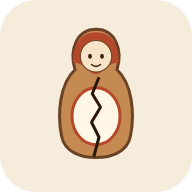
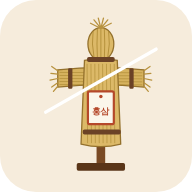
Turn dolls into 大-shaped straw cutting dummies with a diagonal sword-cut animation
Claude-Session: https://claude.ai/code/session_01RkzTcnM1gYhQsNnEV5AorV

Changed region(s): [[0.2188, 0.0938, 0.8438, 0.9062]]

diff --git a/app.js b/app.js
@@ -56,37 +56,44 @@ function streak() {
   return n;
 }
 
-// ---- 목각 인형 그림 ------------------------------------------------------
+// ---- 짚단 인형 그림 (大자 모양, 칼로 베는 연습용) ------------------------
+function strawLines(x1, x2, y1, y2, step, vertical) {
+  let d = '';
+  if (vertical) for (let x = x1; x <= x2; x += step) d += `M${x} ${y1}L${x + 0.6} ${y2}`;
+  else for (let y = y1; y <= y2; y += step) d += `M${x1} ${y}L${x2} ${y + 0.4}`;
+  return `<path d="${d}" stroke="#a9852f" stroke-width=".9" fill="none" opacity=".75"/>`;
+}
+
 function dollSVG(doll) {
   return `
 <svg viewBox="0 0 120 180" xmlns="http://www.w3.org/2000/svg">
-  <path d="M60 6C34 6 24 34 32 60C12 78 8 118 14 148C18 170 40 177 60 177C80 177 102 170 106 148C112 118 108 78 88 60C96 34 86 6 60 6Z"
-        fill="#c48a52" stroke="#6b4226" stroke-width="3"/>
-  <g fill="none" stroke="#8b5a2b" stroke-width="1.4" opacity=".35">
-    <path d="M24 100C40 92 44 110 60 104"/><path d="M70 150C84 142 92 156 102 146"/>
-    <path d="M18 132C30 126 36 138 48 132"/><path d="M78 88C88 82 96 92 104 86"/>
-  </g>
-  <path d="M60 10C38 10 28 30 30 52C40 46 50 66 60 66C70 66 80 46 90 52C92 30 82 10 60 10Z" fill="${doll.color}"/>
-  <circle cx="60" cy="42" r="21" fill="#f7e3c8" stroke="#6b4226" stroke-width="1.5"/>
-  <path d="M42 30C48 22 72 22 78 30C70 27 50 27 42 30Z" fill="#3b2414"/>
-  <ellipse cx="52" cy="42" rx="2.6" ry="3.4" fill="#3b2414"/>
-  <ellipse cx="68" cy="42" rx="2.6" ry="3.4" fill="#3b2414"/>
-  <circle cx="47" cy="50" r="4" fill="#f19a9a" opacity=".7"/>
-  <circle cx="73" cy="50" r="4" fill="#f19a9a" opacity=".7"/>
-  <path d="M54 53Q60 58 66 53" fill="none" stroke="#3b2414" stroke-width="2" stroke-linecap="round"/>
-  <ellipse cx="60" cy="122" rx="32" ry="38" fill="#fff6e6" stroke="${doll.color}" stroke-width="4"/>
-  <circle cx="60" cy="108" r="11" fill="${doll.color}" opacity=".9"/>
-  <circle cx="60" cy="108" r="4" fill="#fff6e6"/>
-  <text x="60" y="140" text-anchor="middle" font-size="14" font-weight="800" fill="${doll.color}"
+  <rect x="55" y="140" width="10" height="34" fill="#7a4a24"/>
+  <rect x="32" y="169" width="56" height="9" rx="2" fill="#5a3518"/>
+  <path d="M10 61Q60 55 110 61L110 81Q60 75 10 81Z" fill="#d6b25e" stroke="#94712c" stroke-width="1.5"/>
+  ${strawLines(12, 108, 64, 78, 3.5, false)}
+  <path d="M10 62L3 57M10 66L2 65M10 71L1 73M10 76L3 81M10 80L5 86M110 62L117 57M110 66L118 65M110 71L119 73M110 76L117 81M110 80L115 86"
+        stroke="#b8923e" stroke-width="1.4" stroke-linecap="round"/>
+  <path d="M41 50Q60 46 79 50L83 147Q60 153 37 147Z" fill="#dcb968" stroke="#94712c" stroke-width="1.5"/>
+  ${strawLines(44, 77, 54, 146, 4.5, true)}
+  <ellipse cx="60" cy="31" rx="15" ry="19" fill="#dcb968" stroke="#94712c" stroke-width="1.5"/>
+  <path d="M51 16Q49 31 52 46M56 13Q55 31 56 49M60 12V50M64 13Q65 31 64 49M69 16Q71 31 68 46" stroke="#a9852f" stroke-width=".9" fill="none"/>
+  <path d="M60 13L52 3M60 13L57 1M60 13L63 1M60 13L68 3M60 13L72 7M60 13L48 7" stroke="#b8923e" stroke-width="1.5" stroke-linecap="round"/>
+  <rect x="44" y="46" width="32" height="6" rx="2" fill="#6b4226"/>
+  <rect x="39" y="130" width="44" height="6" rx="2" fill="#6b4226"/>
+  <rect x="22" y="59" width="5" height="24" rx="1.5" fill="#6b4226"/>
+  <rect x="93" y="59" width="5" height="24" rx="1.5" fill="#6b4226"/>
+  <rect x="45" y="86" width="30" height="38" rx="2" fill="#fbf6ea" stroke="${doll.color}" stroke-width="2.5"/>
+  <circle cx="60" cy="92" r="2" fill="${doll.color}"/>
+  <text x="60" y="112" text-anchor="middle" font-size="10" font-weight="800" fill="${doll.color}"
         font-family="Apple SD Gothic Neo, Noto Sans KR, sans-serif">${doll.tag}</text>
 </svg>`;
 }
 
-const CRACK_SVG = `
-<svg class="crack" viewBox="0 0 120 180" xmlns="http://www.w3.org/2000/svg">
-  <polyline points="64.8,0 55.2,39.6 66,72 54,104.4 64.8,136.8 56.4,180"
-            fill="none" stroke="#2a160a" stroke-width="3.5" stroke-linejoin="bevel"
-            pathLength="1" stroke-dasharray="1" stroke-dashoffset="1"/>
+// 베는 선: 왼쪽 아래(0,108) → 오른쪽 위(120,40)
+const SLASH_SVG = `
+<svg class="slash" viewBox="0 0 120 180" xmlns="http://www.w3.org/2000/svg" overflow="visible">
+  <line x1="-12" y1="114.8" x2="132" y2="33.2" stroke="#fff" stroke-width="5" stroke-linecap="round"
+        pathLength="1" stroke-dasharray="1" stroke-dashoffset="1" style="filter:drop-shadow(0 0 4px #fff) drop-shadow(0 0 2px #9ad)"/>
 </svg>`;
 
 // ---- 화면 ----------------------------------------------------------------
@@ -139,16 +146,15 @@ function render({ arriving = false } = {}) {
     const sub = { waiting: '도착 전', locked: '🔒 앞 인형 먼저', ready: '눌러서 부수기', broken: '✔ 부숨' }[st];
     slot.innerHTML = `
       <button class="doll" aria-label="${i + 1}번째 목각 인형: ${doll.name} (${sub})" ${st === 'ready' ? '' : 'aria-disabled="true"'}>
-        <div class="half l">${dollSVG(doll)}</div>
-        <div class="half r">${dollSVG(doll)}</div>
-        ${CRACK_SVG}
+        <div class="half bot">${dollSVG(doll)}</div>
+        <div class="half top">${dollSVG(doll)}</div>
+        ${SLASH_SVG}
       </button>
       <div class="label">${i + 1}. ${doll.name}</div>
       <div class="sub">${sub}</div>`;
     if (arriving) slot.querySelector('.doll').style.animationDelay = `${i * 0.15}s`;
     if (st === 'broken') {
-      slot.querySelector('.half.l').style.transform = 'translate(-10%, 0) rotate(-12deg)';
-      slot.querySelector('.half.r').style.transform = 'translate(10%, 0) rotate(12deg)';
+      slot.querySelector('.half.top').style.transform = FALLEN;
     }
     slot.querySelector('.doll').addEventListener('click', () => onDollTap(i));
     shelf.appendChild(slot);
@@ -160,6 +166,7 @@ function render({ arriving = false } = {}) {
 }
 
 // ---- 상호작용 ------------------------------------------------------------
+const FALLEN = 'translate(-14%, 34%) rotate(-30deg)'; // 베인 윗부분이 떨어져 누운 자세
 let pending = null;
 let busy = false;
 
@@ -221,52 +228,51 @@ async function smash(i) {
   const slot = $('shelf').children[i];
   slot.classList.remove('ready');
   const doll = slot.querySelector('.doll');
-  const l = doll.querySelector('.half.l');
-  const r = doll.querySelector('.half.r');
-  const crack = doll.querySelector('.crack');
-  const line = crack.querySelector('polyline');
+  const top = doll.querySelector('.half.top');
+  const slash = doll.querySelector('.slash');
+  const line = slash.querySelector('line');
+  const box = doll.getBoundingClientRect();
 
-  // 1) 덜덜 떨기
+  // 1) 숨 고르기: 살짝 움찔
   if (!reduced) {
     await doll.animate([
-      { transform: 'rotate(0) scale(1)' },
-      { transform: 'rotate(-6deg) scale(1.03)' },
-      { transform: 'rotate(6deg) scale(1.05)' },
-      { transform: 'rotate(-8deg) scale(1.07)' },
-      { transform: 'rotate(8deg) scale(1.08)' },
-      { transform: 'rotate(0) scale(1.1)' },
-    ], { duration: 520, easing: 'ease-in' }).finished;
+      { transform: 'rotate(0)' }, { transform: 'rotate(2deg) translateX(2px)' }, { transform: 'rotate(0)' },
+    ], { duration: 300, easing: 'ease-in-out' }).finished;
   }
 
-  // 2) 쩍! 금이 감
-  crack.style.opacity = '1';
-  await line.animate([{ strokeDashoffset: 1 }, { strokeDashoffset: 0 }], { duration: reduced ? 1 : 180, fill: 'forwards' }).finished;
-
-  // 3) 쾅! 두 동강
-  crunch();
-  navigator.vibrate?.([20, 30, 120]);
-  const box = doll.getBoundingClientRect();
-  bang(box.left + box.width / 2, box.top + box.height * 0.35);
+  // 2) 싹둑! 칼날이 대각선으로 지나감
+  slash.style.opacity = '1';
+  swish();
+  navigator.vibrate?.([15, 20, 90]);
+  await line.animate([{ strokeDashoffset: 1 }, { strokeDashoffset: 0 }],
+    { duration: reduced ? 1 : 110, easing: 'ease-in', fill: 'forwards' }).finished;
+  bang(box.left + box.width * 0.78, box.top + box.height * 0.18);
   if (!reduced) {
-    document.body.classList.remove('shake');
-    void document.body.offsetWidth;
-    document.body.classList.add('shake');
-    chips(box.left + box.width / 2, box.top + box.height * 0.45, 26);
+    chips(box.left + box.width / 2, box.top + box.height * 0.41, 30);
+    slash.animate([{ opacity: 1 }, { opacity: 0 }], { duration: 350, fill: 'forwards' });
+    await wait(260); // 베인 뒤 잠깐 멈춤 — 그다음 스르륵
   }
-  crack.style.opacity = '0';
-  const fly = (el, dir) => el.animate([
+  slash.style.opacity = '0';
+
+  // 3) 윗부분이 베인 면을 따라 미끄러져 떨어짐
+  await top.animate([
     { transform: 'translate(0,0) rotate(0)' },
-    { transform: `translate(${dir * 40}%, -16%) rotate(${dir * 30}deg)`, offset: 0.45 },
-    { transform: `translate(${dir * 10}%, 0) rotate(${dir * 12}deg)` },
-  ], { duration: reduced ? 1 : 650, easing: 'cubic-bezier(.2,.8,.3,1)', fill: 'forwards' }).finished;
-  await Promise.all([fly(l, -1), fly(r, 1)]);
-  await wait(250);
+    { transform: 'translate(-9%, 5%) rotate(-3deg)', offset: 0.3, easing: 'ease-in' },
+    { transform: 'translate(-17%, 37%) rotate(-38deg)', offset: 0.78 },
+    { transform: 'translate(-13%, 31%) rotate(-26deg)', offset: 0.9 },
+    { transform: FALLEN },
+  ], { duration: reduced ? 1 : 900, easing: 'ease-in', fill: 'forwards' }).finished;
+  if (!reduced) {
+    thud();
+    chips(box.left + box.width * 0.4, box.top + box.height * 0.85, 10);
+  }
+  await wait(300);
 }
 
 function bang(x, y) {
   const el = document.createElement('div');
   el.className = 'bang';
-  el.textContent = '쾅!';
+  el.textContent = '싹둑!';
   el.style.left = `${x}px`;
   el.style.top = `${y}px`;
   $('fx').appendChild(el);
@@ -283,10 +289,9 @@ function chips(x, y, n) {
     el.className = 'chip';
     el.style.left = `${x}px`;
     el.style.top = `${y}px`;
-    const w = 6 + Math.random() * 10;
-    el.style.width = `${w}px`;
-    el.style.height = `${w * (0.4 + Math.random() * 0.4)}px`;
-    if (Math.random() < 0.3) el.style.background = '#8b5a2b';
+    el.style.width = `${2 + Math.random() * 2}px`;
+    el.style.height = `${8 + Math.random() * 14}px`;
+    if (Math.random() < 0.35) el.style.background = '#b8923e';
     $('fx').appendChild(el);
     const a = Math.random() * Math.PI * 2;
     const v = 80 + Math.random() * 160;
@@ -302,24 +307,26 @@ function chips(x, y, n) {
 }
 
 let audio;
-function crunch() {
+function noise(seconds, shape, filterType, freq, gainValue) {
   try {
     audio ||= new (window.AudioContext || window.webkitAudioContext)();
-    const len = audio.sampleRate * 0.25;
+    const len = Math.floor(audio.sampleRate * seconds);
     const buf = audio.createBuffer(1, len, audio.sampleRate);
     const data = buf.getChannelData(0);
-    for (let i = 0; i < len; i++) data[i] = (Math.random() * 2 - 1) * Math.pow(1 - i / len, 3);
+    for (let i = 0; i < len; i++) data[i] = (Math.random() * 2 - 1) * shape(i / len);
     const src = audio.createBufferSource();
     src.buffer = buf;
     const filter = audio.createBiquadFilter();
-    filter.type = 'lowpass';
-    filter.frequency.value = 1400;
+    filter.type = filterType;
+    filter.frequency.value = freq;
     const gain = audio.createGain();
-    gain.gain.value = 0.8;
+    gain.gain.value = gainValue;
     src.connect(filter).connect(gain).connect(audio.destination);
     src.start();
   } catch { /* 소리 없이 진행 */ }
 }
+const swish = () => noise(0.22, (t) => Math.sin(Math.PI * t) ** 2, 'bandpass', 3200, 1.2); // 칼바람
+const thud = () => noise(0.18, (t) => (1 - t) ** 4, 'lowpass', 500, 1.0);                // 툭 떨어짐
 
 function celebrate() {
   if (reduced) return;

diff --git a/style.css b/style.css
@@ -88,33 +88,33 @@ main { max-width: 560px; margin: 0 auto; }
 .doll:focus-visible { outline: 3px solid var(--accent); outline-offset: 4px; border-radius: 12px; }
 .doll .half {
   position: absolute; inset: 0;
-  transform-origin: 50% 100%;
+  transform-origin: 50% 42%;
 }
 .doll .half svg { width: 100%; height: 100%; display: block; }
-.doll .half.l { clip-path: polygon(0 0, 55% 0, 47% 22%, 56% 40%, 46% 58%, 55% 76%, 48% 100%, 0 100%); }
-.doll .half.r { clip-path: polygon(54% 0, 100% 0, 100% 100%, 47% 100%, 54% 76%, 45% 58%, 55% 40%, 46% 22%); }
-.doll .crack {
+/* 대각선 베기: 왼쪽 60% 높이 → 오른쪽 22% 높이 */
+.doll .half.top { clip-path: polygon(-30% -10%, 130% -10%, 130% 11.3%, -30% 71.7%); }
+.doll .half.bot { clip-path: polygon(-30% 71.1%, 130% 10.7%, 130% 110%, -30% 110%); }
+.doll .slash {
   position: absolute; inset: 0; width: 100%; height: 100%;
   pointer-events: none; opacity: 0;
 }
 
-.slot.ready .doll { animation: wiggle 2.6s ease-in-out infinite; }
+.slot.ready .doll { transform-origin: 50% 100%; animation: wiggle 3s ease-in-out infinite; }
 .slot.locked .doll { filter: grayscale(.55) brightness(.9); cursor: not-allowed; }
 .slot.broken .doll { cursor: default; }
 .slot.waiting .doll { opacity: .25; filter: grayscale(1); cursor: default; }
 .slot.arriving .doll { animation: drop .7s cubic-bezier(.3, 1.4, .5, 1) both; }
 
 @keyframes wiggle {
-  0%, 80%, 100% { transform: rotate(0); }
-  84% { transform: rotate(-4deg); }
-  88% { transform: rotate(4deg); }
-  92% { transform: rotate(-2deg); }
+  0%, 100% { transform: rotate(0); }
+  50% { transform: rotate(1.5deg); }
 }
 @keyframes drop {
   from { transform: translateY(-120vh) rotate(-20deg); }
   to { transform: none; }
 }
 
+.label, .sub { position: relative; z-index: 1; }
 .label {
   margin-top: 6px; font-weight: 700; font-size: .95rem; text-align: center;
 }
@@ -176,9 +176,8 @@ main { max-width: 560px; margin: 0 auto; }
 
 .fx { position: fixed; inset: 0; pointer-events: none; z-index: 30; overflow: hidden; }
 .chip {
-  position: absolute; width: 10px; height: 6px;
-  background: var(--wood); border-radius: 2px;
-  box-shadow: inset 0 -2px 0 var(--wood-dark);
+  position: absolute; width: 3px; height: 14px;
+  background: #e2c374; border-radius: 2px;
 }
 .bang {
   position: absolute; font-size: 2.4rem; font-weight: 900; color: var(--accent);

diff --git a/sw.js b/sw.js
@@ -1,5 +1,5 @@
 // 오프라인에서도 앱이 열리도록 파일을 캐시합니다.
-const CACHE = 'breakmed-v1';
+const CACHE = 'breakmed-v2';
 const FILES = ['./', 'index.html', 'style.css', 'app.js', 'manifest.webmanifest', 'reminders.ics',
   'icons/icon.svg', 'icons/icon-192.png', 'icons/icon-512.png'];
 

diff --git a/README.md b/README.md
@@ -1,11 +1,11 @@
 # breakmed — 목각 인형 부수기
 
-약을 먹어야만 부술 수 있는 목각 인형 게임 (휴대폰 홈 화면에 설치하는 웹앱).
+약을 먹어야만 벨 수 있는 짚단 인형(大자 모양 베기 연습용 목각 인형) 게임 — 휴대폰 홈 화면에 설치하는 웹앱.
 
 - 매일 **오후 1시**에 목각 인형 3개 도착 → `📦 목각 인형 받기`
 - 순서대로 부수기: **1. 칼슘제 → 2. 홍삼 → 3. 여드름약**
 - 인형을 누르면 “칼슘제를 먹었습니까?” 창이 뜨고 버튼은 **`먹었다.`** 하나뿐
-- 누르면 덜덜 → 쩍 → **쾅!** 두 동강 + 나무 조각 + 진동/효과음
+- 누르면 칼날이 대각선으로 **싹둑!** → 윗부분이 베인 면을 따라 미끄러져 떨어짐 + 짚 부스러기 + 진동/효과음
 - 새벽 4시 전까지는 전날로 인정 / 연속 성공 일수 표시
 - 오프라인에서도 열림 (서비스 워커 캐시)
 
